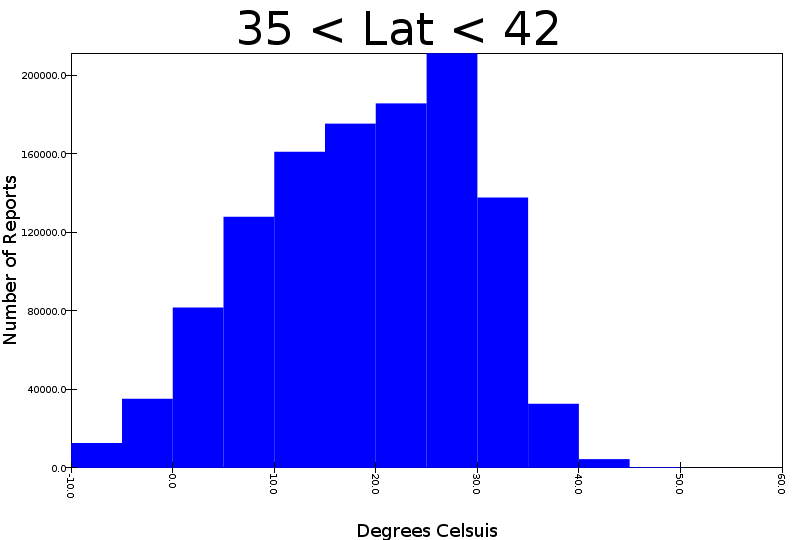
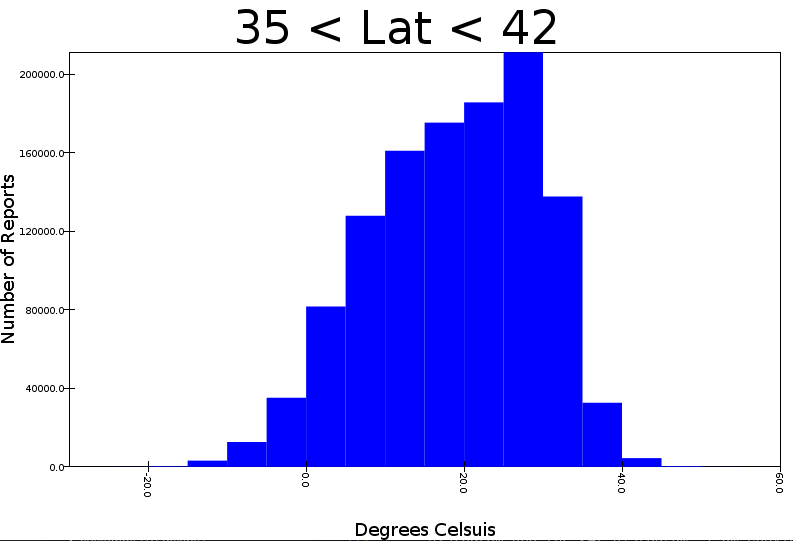
Done

Changed region(s): [[0.0, 0.0, 0.9987, 0.9185], [0.4237, 0.9481, 0.6356, 1.0], [0.6658, 0.0, 0.6961, 0.0296]]

diff --git a/sparkrdd2.md b/sparkrdd2.md
@@ -40,11 +40,19 @@ For each question, I have filtered out any reports that have a quality flag.
 
     plausible. 
 
-    X-axis is degrees celsius. Y-axis number of reports.
-
 ![Histo](src/main/scala/sparkrdd2/35.png)
 ![Histo1](src/main/scala/sparkrdd2/3542.png)
 ![Histo2](src/main/scala/sparkrdd2/42.png)
+
+     These historgrams seem to match what the stdevs were. The lat < 35 shows low variance, as the breadth
+
+     is not too wide. With the other two histograms, though, an increase in latitude shows a wider breadth,
+
+     thus more variance. After seeing these charts, and seeing the significant difference between the <35 
+     
+     histogram and the >42 histogram, I am convinced that variability of land temperature changes with 
+
+     latitude.  
 
 
 ### 6) Average high temps for 2017
